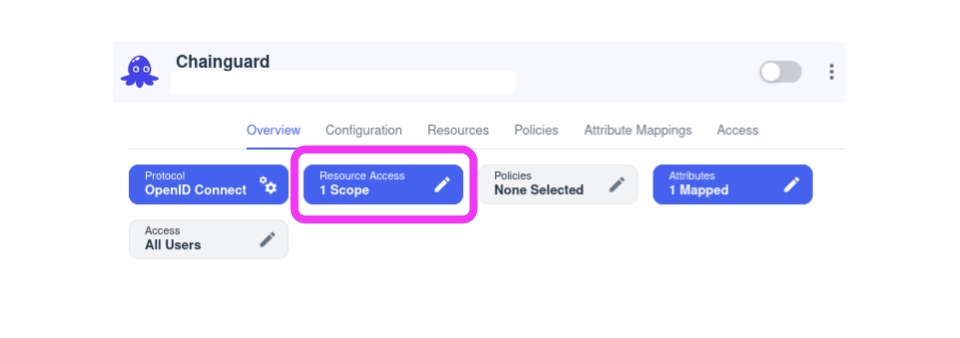
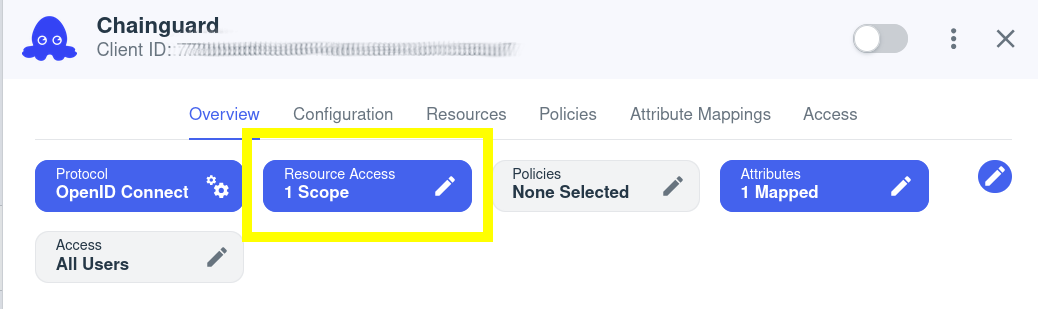
Updating Azure + Ping Custom IDP docs (#1827)
## Type of change
<!-- Please be sure to add the appropriate label to your PR. -->
This PR updates two of our Custom IDP walkthroughs: PingID and Microsoft
Entra ID (formerly Azure Active Directory).

The impetus for these updates was that we changed the console URL and
updated our branding, which wasn't reflected in some screenshots in
these docs. Also, Azure AD recently rebranded which warranted some more
updates to that doc. Lastly, a customer/prospect reached out letting us
know that the Azure doc wasn't working for them, although I was able to
confirm that it works as written.

### What should this PR do?
<!-- Does this PR resolve an issue? Please include a reference to it.
-->
Resolves https://github.com/chainguard-dev/internal/issues/4131

### Why are we making this change?
<!-- What larger problem does this PR address? -->
Customer interest, aligning with new brand.

### What are the acceptance criteria? 
<!-- What should be happening for this PR to be accepted? Please list
criteria. -->
<!-- Do any stakeholders need to be tagged in this review? If so, please
add them. -->

### How should this PR be tested?
<!-- What should your reviewer do to test this PR? Please list steps.
-->
Changes should look okay when rendered, doc should work as written.

diff --git a/content/chainguard/administration/custom-idps/ms-entra-id/index.md b/content/chainguard/administration/custom-idps/ms-entra-id/index.md
@@ -1,0 +1,124 @@
+---
+title : "How To Integrate Microsoft Entra ID SSO with Chainguard"
+linktitle: "Microsoft Entra ID"
+alias:
+- /chainguard/administration/custom-idps/azure-ad/
+lead: ""
+description: "Procedural tutorial on how to register a Microsoft Entra ID Application and integrate it with the Chainguard platform."
+type: "article"
+date: 2023-04-17T08:48:45+00:00
+lastmod: 2024-09-25T15:22:20+01:00
+draft: false
+tags: ["CHAINGUARD IMAGES", "PROCEDURAL"]
+images: []
+weight: 020
+---
+
+The Chainguard platform supports Single sign-on (SSO) authentication for users. By default, users can log in with GitHub, GitLab and Google, but SSO support allows users to bring their own identity provider for authentication.
+
+This guide outlines how to create a Microsoft Entra ID (formerly Azure Active Directory) application and integrate it with Chainguard. After completing this guide, you'll be able to log in to Chainguard using Entra ID and will no longer be limited to the default SSO options.
+
+
+## Prerequisites
+
+To complete this guide, you will need the following.
+
+* `chainctl` installed on your system. Follow our guide on [How To Install `chainctl`](/chainguard/administration/how-to-install-chainctl/) if you don't already have this installed.
+* An Azure account you can use to set up an Microsoft Entra ID application.
+
+
+## Create a Microsoft Entra ID Application
+
+To integrate Microsoft Entra ID with the Chainguard platform, log in to [Azure](https://azure.microsoft.com). In the left-hand navigation menu, select **Microsoft Entra ID**.
+
+![Screenshot of Azure's left-hand navigation menu, with the "Microsoft Entra ID" option highglighted in a yellow box.](meid-0.png)
+
+From the Default Directory **Overview** page, click the **➕ Add** button and select **App Registration** from the dropdown menu.
+
+![Screenshot of the Overview in the Azure console. The "Add" dropdown menu has been opened and the "App Registration" option is highlighted in a yellow box.](meid-1.png)
+
+In the **Register an application** screen, configure the application as follows.
+
+* **Name**: Set the username to "Chainguard" (or similar) to ensure users recognize this application is for authentication to the Chainguard platform.
+* **Supported account types**: Select the **Single tenant** option so that only your organization can use this application to authenticate to Chainguard.
+* **Redirect URI**: Set the platform to **Web** and the redirect URI to `https://issuer.enforce.dev/oauth/callback`.
+
+![Screenshot of the Register an application screen with the following settings selected: the Name is set to "chainguard"; Supported account types is set to the "Accounts in this organizational directory only (default Directory only - Single tenant)" option; and the Redirect URI is set to "Web" with "https://issuer.enforce.dev/oauth/callback" set as the URI.](meid-2.png)
+
+Save your configuration by clicking the **Register** button.
+
+Next, you can optionally set additional branding for the application by selecting **Branding and properties** from the **Manage** dropdown menu.
+
+Here you can set additional metadata for the application, including a Chainguard logo icon here to help your users visually identify this integration. If you'd like, you can use the icon from the [Chainguard Console](https://console.chainguard.dev/logo512.png). The console homepage is [console.chainguard.dev](https://console.chainguard.dev), and our terms of service and private statements can be found at [chainguard.dev/terms-of-service](https://www.chainguard.dev/terms-of-service) and [chainguard.dev/privacy-notice](https://www.chainguard.dev/privacy-notice), respectively.
+
+![Screenshot of the Branding & properties screen with the following settings: Name is set to "Chainguard"; Logo shows the sample Linky logo uploaded; Home page URL is set to "https://console.chainguard.dev"; Terms of service URL is set to "https://www.chainguard.dev/terms-of-service"; and the Privacy statement URL is set to "https://www.chainguard.dev/privacy-notice".](meid-3.png)
+
+Finally, navigate to the **Certificates & secrets** tab in the **Manage** dropdown to create a client secret to authenticate the Chainguard platform to Microsoft Entra ID. Select **New client secret** to add a client secret. In the resulting modal window, add a description and set an expiration date.
+
+![Screenshot showing the Certificates & secrets landing page with the Add a client secret screen opened. The "Certificates & secrets" tab is highlighted in yellow, as is the "New client secret" button.](meid-4.png)
+
+Finally, take note of the client secret “Value” that is created. You'll need this to configure the Chainguard platform to use this Microsoft Entra ID application.
+
+![Screenshot showing the "Client secrets" tab, with the Value highlighted in yellow.](meid-5.png)
+
+
+## Configuring Chainguard to use Microsoft Entra ID
+
+Now that your Microsoft Entra ID application is ready, you can create the custom identity provider.
+
+First, log in to Chainguard with `chainctl`, using an OIDC provider like Google, GitHub, or GitLab to bootstrap your account.
+
+```sh
+chainctl auth login
+```
+
+Note that this bootstrap account can be used as a [backup account](/chainguard/administration/custom-idps/custom-idps/#backup-accounts) (that is, a backup account you can use to log in if you ever lose access to your primary account). However, if you prefer to remove this role-binding after configuring the custom IDP, you may also do so.
+
+To configure Chainguard, make a note of the following details from your Microsoft Entra ID application:
+
+* **Application (client) Id**: This can be found on the **Overview** tab of the Chainguard application.
+* **Client Secret**: You noted this down when you set up the client secret in the previous step.
+* **Directory (tenant) Id**: This can also be found on the **Overview** tab of the Chainguard application.
+
+![Screenshot of a portion of the Overview page showing the "Essentials" information. The Application (client) ID and the Directory (tenant) ID are both highlighted in yellow boxes, though their values have been blurred.](meid-6.png)
+
+You will also need the UIDP for the Chainguard organization under which you want to install the identity provider.  Your selection won’t affect how your users authenticate but will have implications on who has permission to modify the SSO configuration.
+
+You can retrieve a list of all the Chainguard organizations you belong to — along with their UIDPs — with the following command.
+
+```shell
+chainctl iam organizations ls -o table
+```
+```output
+                         	ID                         	|  	  NAME    |	DESCRIPTION
+--------------------------------------------------------+-------------+---------------------
+  59156e77fb23e1e5ebcb1bd9c5edae471dd85c43              | sample_org  |
+  . . .                                                 | . . .       |
+```
+
+Note down the `ID` value for your chosen organization.
+
+With this information in hand, create a new identity provider with the following commands.
+
+```sh
+export NAME=entra-id
+export CLIENT_ID=<your application/client id here>
+export CLIENT_SECRET=<your client secret here>
+export ORG=<your organization UIDP here>
+export TENANT_ID=<your directory/tenant id here>
+export ISSUER="https://login.microsoftonline.com/${TENANT_ID}/v2.0"
+chainctl iam identity-provider create \
+  --configuration-type=OIDC \
+  --oidc-client-id=${CLIENT_ID} \
+  --oidc-client-secret=${CLIENT_SECRET} \
+  --oidc-issuer=${ISSUER} \
+  --oidc-additional-scopes=email \
+  --oidc-additional-scopes=profile \
+  --parent=${ORG} \
+  --default-role=viewer \
+  --name=${NAME}
+```
+
+Note the `--default-role` option. This defines the default role granted to users registering with this identity provider. This example specifies the `viewer` role, but depending on your needs you might choose `editor` or `owner`. If you don't include this option, you'll be prompted to specify the role interactively. For more information, refer to the [IAM and Security section](/chainguard/administration/custom-idps/custom-idps/#iam-and-security) of our Introduction to Custom Identity Providers in Chainguard tutorial.
+
+You can refer to our [Generic Integration Guide](/chainguard/administration/custom-idps/custom-idps/#generic-integration-guide) in our Introduction to Custom Identity Providers doc for more information about the `chainctl iam identity-provider create` command and its required options.

diff --git a/content/chainguard/administration/custom-idps/ping-id/index.md b/content/chainguard/administration/custom-idps/ping-id/index.md
@@ -5,7 +5,7 @@ lead: ""
 description: "Procedural tutorial on how to create a Ping Identity Application"
 type: "article"
 date: 2023-04-17T08:48:45+00:00
-lastmod: 2024-06-26T15:22:20+01:00
+lastmod: 2024-09-25T15:22:20+01:00
 draft: false
 tags: ["Chainguard Images", "Procedural"]
 images: []
@@ -27,29 +27,29 @@ To complete this guide, you will need the following.
 
 ## Create a Ping Identity Application
 
-To integrate the Ping identity provider with the Chainguard platform, [sign on to Ping Identity](https://www.pingidentity.com/en.html) and navigate to the Dashboard. Click on the **Connections** tab in the left hand sidebar menu, and then click on **Applications** in the resulting dropdown menu. From the Applications landing page, click the plus sign (**➕**) to set up a new application.
+To integrate the Ping identity provider with the Chainguard platform, [sign on to Ping Identity](https://www.pingidentity.com/en.html) and navigate to the Dashboard. Click on the **Applications** tab in the left-hand sidebar menu, and then click on **Applications** in the resulting dropdown menu. From the Applications landing page, click the plus sign (**➕**) to set up a new application.
 
-![Screenshot of the Ping Identity Dashboard, showing the applications landing page. The Applications tab in the left hand sidebar and the "add application" plus sign icon are circled in magenta.](ping-1.png)
+![Screenshot of the Ping Identity Dashboard, showing the applications landing page. The Applications tab in the left hand sidebar and the "add application" plus sign icon are highlighted in yellow.](ping-1.png)
 
 Configure the application as follows:
 
-* **Application Name**: Set a name and option description (such as "Chainguard") to ensure users recognize this application is for authentication to the Chainguard platform.
+* **Application Name**: Set a descriptive name (such as "Chainguard") and optional description to ensure users recognize this application is for authentication to the Chainguard platform.
 * **Icon**: You can optionally add a Chainguard logo icon here to help your users visually identify this integration. If you'd like, you can use the icon from the [Chainguard Console](https://console.chainguard.dev/logo512.png).
 * **Application Type**: Select **OIDC Web App**.
 
-![Screenshot showing the Add Application modal window with the following settings in place: Application Name is set to "Chainguard"; Description reads "Build it right, Build it safe, Build it fast, https://console.chainguard.dev"; the example Linky icon has been uploaded to the Icon field; and the Application Type is set to "OIDC Web App."](ping-2-add-app.png)
+![Screenshot showing the Add Application modal window with the following settings in place: Application Name is set to "Chainguard"; Description reads "Safe Source for Open Source, https://console.chainguard.dev"; the example Linky icon has been uploaded to the Icon field; and the Application Type is set to "OIDC Web App."](ping-2.png)
 
 After setting these details, click the **Save** button.
 
 Next, configure scopes for the application. In the **Overview** tab, click the **Resource Access** scope button.
 
-![Screenshot of the Overview tab, with the Resource Access scope button highlighted in a magenta circle.](ping-3.png)
+![Screenshot of the Overview tab, with the Resource Access scope button highlighted in a yellow box.](ping-3.png)
 
 Add **email** and **profile** scopes, then save.
 
 ![Screenshot of the Edit Resources modal window, showing the email and profile scopes selected.](ping-4.png)
 
-Next, configure the OIDC application. Navigate to the **Configuration** tab and click the "edit" icon.
+Next, configure the OIDC application. Navigate to the **Configuration** tab and click the pencil-shaped "edit" icon.
 
 To configure the application, add the following settings.
 
@@ -60,13 +60,13 @@ To configure the application, add the following settings.
 
 * **Redirect URIs**: Set the Redirect URI to [`https://issuer.enforce.dev/oauth/callback`](https://issuer.enforce.dev/oauth/callback).
 
-![Screenshot of the Edit Configuration modal window with the following settings: Resource type is set to "Code"; Grant type is set to "Authorization Code" (with PKCE enforcement set to "Optional"); Redirect URIs has one option set (https://issuer.enforce.dev/oauth/callback).](ping-7-edit-conf.png)
+![Screenshot of the Edit Configuration modal window with the following settings: Resource type is set to "Code"; Grant type is set to "Authorization Code" (with PKCE enforcement set to "Optional"); Redirect URIs has one option set (https://issuer.enforce.dev/oauth/callback).](ping-5.png)
 
 Click the **Save** button to save your configuration.
 
-Finally, enable the Chainguard application by toggling the knob in the top right corner.
+Finally, enable the Chainguard application by toggling the button in the top right corner.
 
-![Screenshot of the Overview tab, with the toggle button turned on. Additionally, the toggle button is highlighted with a magenta circle.](ping-8-2.png)
+![Screenshot of the Overview tab, with the toggle button turned on. The toggle button is highlighted with a yellow box.](ping-6.png)
 
 This completes configuration of the Ping application. You're now ready to configure the Chainguard platform to use it.
 
@@ -126,6 +126,5 @@ chainctl iam identity-provider create \
 ```
 
 Note the `--default-role` option. This defines the default role granted to users registering with this identity provider. This example specifies the `viewer` role, but depending on your needs you might choose `editor` or `owner`. If you don't include this option, you'll be prompted to specify the role interactively. For more information, refer to the [IAM and Security section](/chainguard/administration/custom-idps/custom-idps/#iam-and-security) of our Introduction to Custom Identity Providers in Chainguard tutorial.
-
 
 You can refer to our [Generic Integration Guide](/chainguard/administration/custom-idps/custom-idps/#generic-integration-guide) in our Introduction to Custom Identity Providers guide for more information about the `chainctl iam identity-provider create` command and its required options.